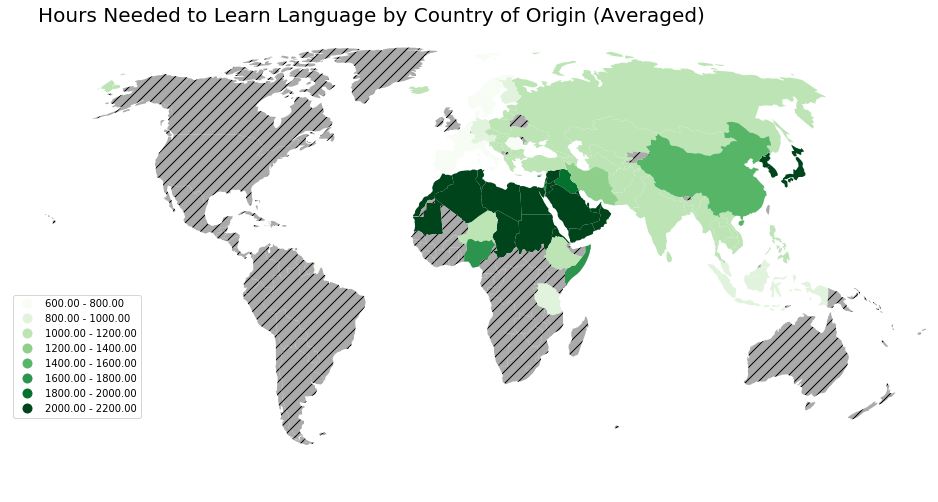
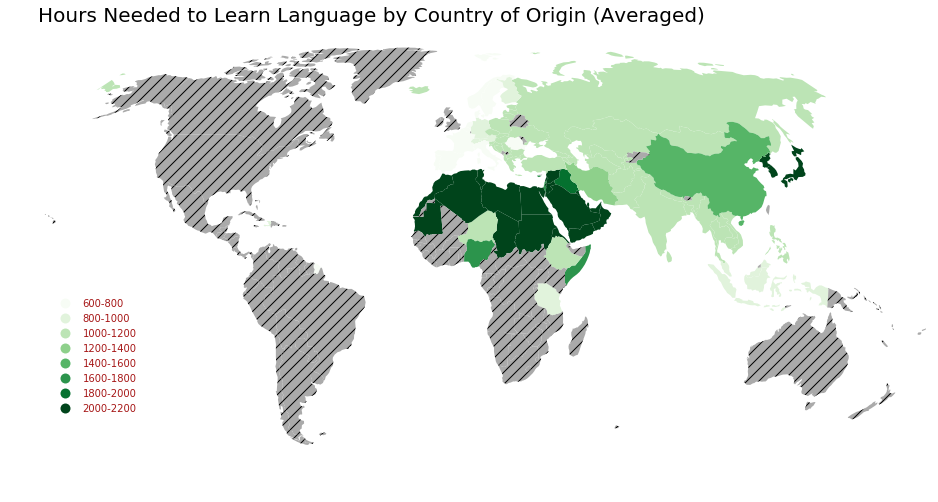
Improve legen on chloropleth

Changed region(s): [[0.0, 0.5677, 0.1546, 0.8367]]

diff --git a/_posts/2019-08-30-Anthony-Hart-and-the-Quest-for-a-Statistically-Significant-Result-About-the-Difficulty-of-Different-Languages.md b/_posts/2019-08-30-Anthony-Hart-and-the-Quest-for-a-Statistically-Significant-Result-About-the-Difficulty-of-Different-Languages.md
@@ -81,11 +81,6 @@ for i in langDf.T:
 langDf = langDf.reset_index()
 ```
 
-Note that this also gets rid of English as a column, so before running that, I took out the English row for later reference.
-
-```python
-english = langDf[langDf['Name'] == "English"].copy()
-```
 <a name="heading2"></a>
 ## Seeing The World
 
@@ -123,7 +118,7 @@ shapefile = 'ne_110m_admin_0_countries.shp'
 gdf = gpd.read_file(shapefile)[['ISO_A2', 'geometry']].to_crs('+proj=robin')
 ```
 
-Also, France and Norway's ISO alpha-2 code is listed as `'-99'` for some reason, so that needs to be fixed.
+Also, France and Norway's ISO alpha-2 codes are listed as `'-99'` for some reason, so that needs to be fixed.
 
 ```python
 gdf['ISO_A2'][43]='FR'
@@ -264,7 +259,8 @@ Well, let's stop looking manually, and do things automatically! I wrote this cod
 
 ```python
 for c in langDf.columns:
-  if not (c in ['index', 'wals_code', 'iso_code', 'glottocode', 'Name', 'latitude', 'longitude', 'countrycodes']):
+  if not (c in [ 'index', 'wals_code', 'iso_code', 'glottocode'
+               , 'Name', 'latitude', 'longitude', 'countrycodes' ]):
     langDf.pivot_table(values=['class_hours'], index=c).sort_values('class_hours').plot(kind='bar');
     plt.title(c)
     plt.show()
@@ -272,7 +268,8 @@ for c in langDf.columns:
     with pd.option_context('display.max_rows', 10, 'display.max_columns', 7):
       print(
         pd.DataFrame(
-          [ [ ttest_ind(langDf[langDf[c]==r1]['class_hours'], langDf[langDf[c]==r2]['class_hours']).pvalue
+          [ [ ttest_ind( langDf[langDf[c]==r1]['class_hours']
+                       , langDf[langDf[c]==r2]['class_hours']).pvalue
               for r1 in langDf[c].unique()[1:] ]
               for r2 in langDf[c].unique()[1:] ]
           , columns=langDf[c].unique()[1:]) )
@@ -447,7 +444,7 @@ Similar things can be said about the various other significant attributes...
 <a name="heading5"></a>
 ## Goodbye!
 
-I suppose there should be a narrative somewhere here, but there isn't. These languages were not made by thinking gods, and though they manifest through the actions of man, they do not exist by the designs of man. Each is an egregore and such inscrutable entities disdain narration. 
+I suppose there should be a narrative somewhere here, but there isn't. These languages were not made by thinking gods, and though they manifest through the actions of man, they do not exist by the designs of man. Each is an egregore and such inscrutable entities disdain narration. The best we can hope is that some patterns become clear.
 
 Well, we certainly learned a lot today. Nothing that was definitely true, but, a lot, regardless.
 
